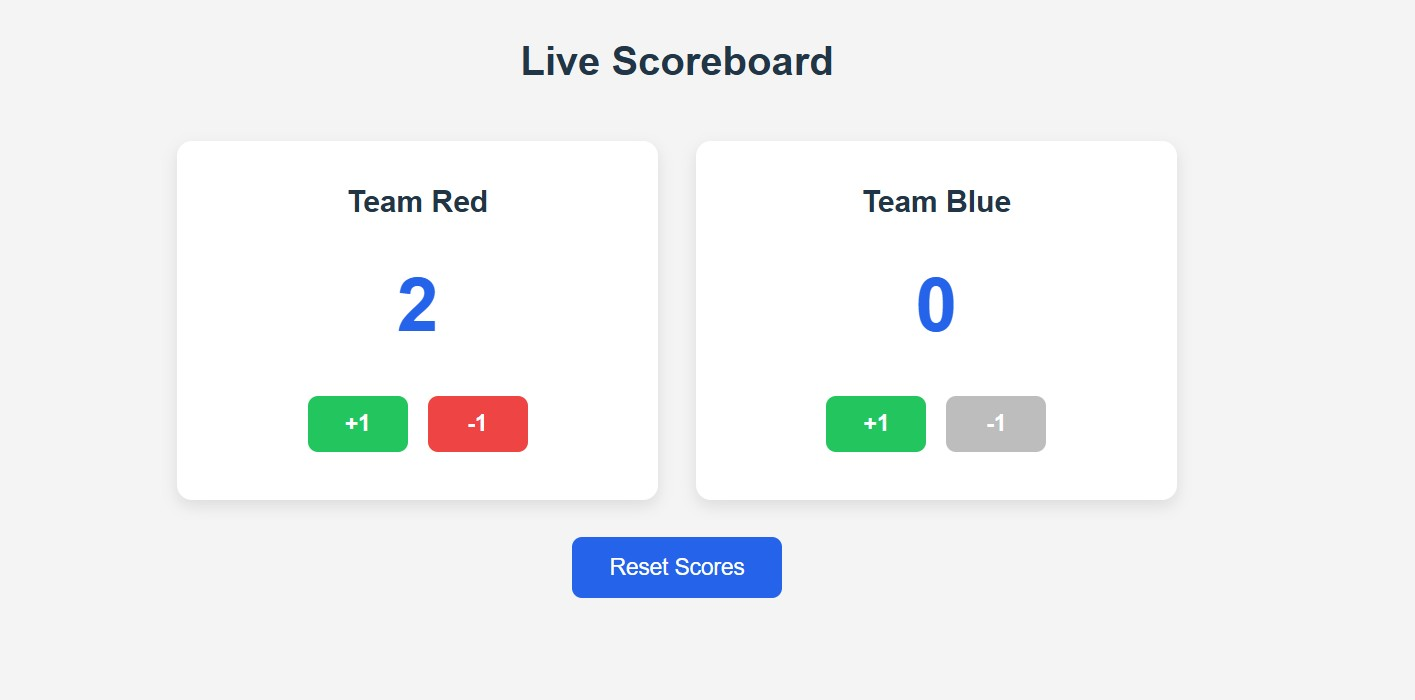
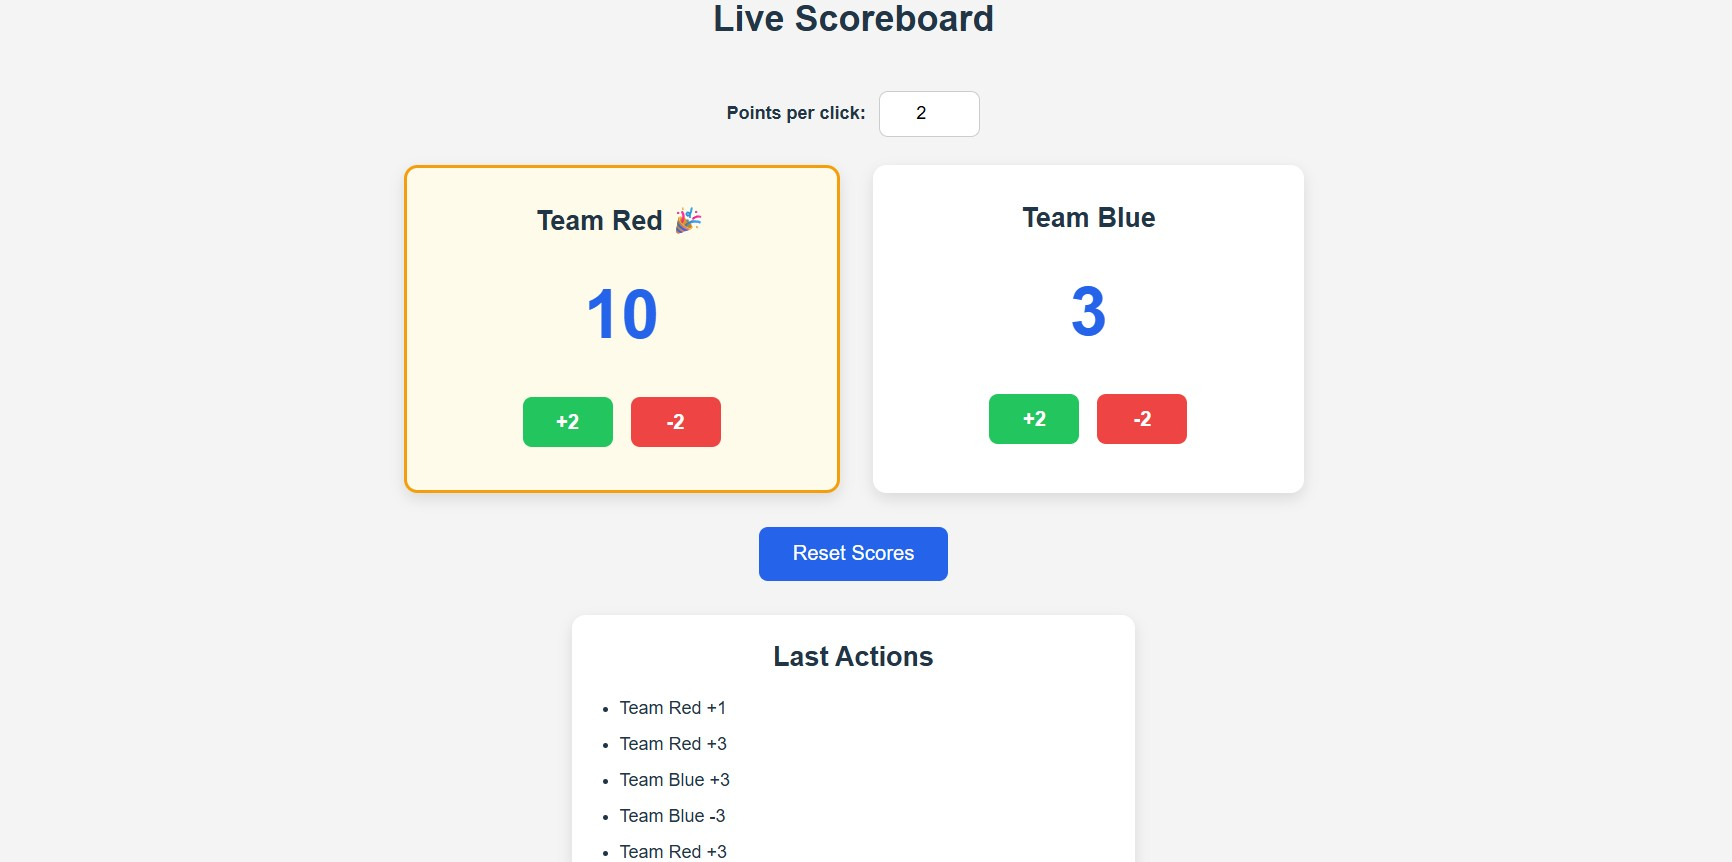
Add scoreboard stretch goals

diff --git a/src/components/Scoreboard.jsx b/src/components/Scoreboard.jsx
@@ -1,41 +1,106 @@
 import { useState } from "react";
 import TeamPanel from "./TeamPanel";
 
-// Holds both teams' scores and updates them
+// Holds both teams' scores, custom step, history, and winner state
 function Scoreboard({ redTeamName, blueTeamName }) {
   const [redScore, setRedScore] = useState(0);
   const [blueScore, setBlueScore] = useState(0);
+  const [step, setStep] = useState(1);
+  const [history, setHistory] = useState([]);
+
+  function addHistory(action) {
+    setHistory((currentHistory) => {
+      const updatedHistory = [action, ...currentHistory];
+
+      return updatedHistory.slice(0, 5);
+    });
+  }
+  
+  function changeRedScore(amount) {
+    if (amount < 0 && redScore === 0) return;
+
+    setRedScore((currentScore) =>
+      Math.max(0, currentScore + amount)
+    );
+
+    addHistory(
+      amount > 0
+        ? `${redTeamName} +${step}`
+        : `${redTeamName} -${step}`
+    );
+  }
+
+  function changeBlueScore(amount) {
+    if (amount < 0 && blueScore === 0) return;
+
+    setBlueScore((currentScore) =>
+      Math.max(0, currentScore + amount)
+    );
+
+    addHistory(
+      amount > 0
+        ? `${blueTeamName} +${step}`
+        : `${blueTeamName} -${step}`
+    );
+  }
 
   function resetScores() {
-    setRedScore(() => 0);
-    setBlueScore(() => 0);
+    setRedScore(0);
+    setBlueScore(0);
+    setHistory([]);
   }
 
   return (
     <section className="scoreboard">
+      <div className="step-control">
+        <label htmlFor="step">Points per click:</label>
+
+        <input
+          id="step"
+          type="number"
+          min="1"
+          value={step}
+          onChange={(event) =>
+            setStep(Math.max(1, Number(event.target.value)))
+          }
+        />
+      </div>
+
       <div className="team-panels">
         <TeamPanel
           teamName={redTeamName}
           score={redScore}
-          onAdd={() => setRedScore((currentScore) => currentScore + 1)}
-          onSubtract={() =>
-            setRedScore((currentScore) => Math.max(0, currentScore - 1))
-          }
+          step={step}
+          onAdd={() => changeRedScore(step)}
+          onSubtract={() => changeRedScore(-step)}
         />
 
         <TeamPanel
           teamName={blueTeamName}
           score={blueScore}
-          onAdd={() => setBlueScore((currentScore) => currentScore + 1)}
-          onSubtract={() =>
-            setBlueScore((currentScore) => Math.max(0, currentScore - 1))
-          }
+          step={step}
+          onAdd={() => changeBlueScore(step)}
+          onSubtract={() => changeBlueScore(-step)}
         />
       </div>
 
       <button className="reset-button" onClick={resetScores}>
         Reset Scores
       </button>
+
+      <div className="history">
+        <h2>Last Actions</h2>
+
+        {history.length === 0 ? (
+          <p>No actions yet.</p>
+        ) : (
+          <ul>
+            {history.map((action, index) => (
+              <li key={`${action}-${index}`}>{action}</li>
+            ))}
+          </ul>
+        )}
+      </div>
     </section>
   );
 }

diff --git a/src/App.css b/src/App.css
@@ -91,6 +91,55 @@ body {
 .reset-button:hover {
   background-color: #1d4ed8;
 }
+.step-control {
+  display: flex;
+  justify-content: center;
+  align-items: center;
+  gap: 12px;
+  margin-bottom: 25px;
+}
+
+.step-control label {
+  font-weight: bold;
+}
+
+.step-control input {
+  width: 90px;
+  padding: 10px;
+  border: 1px solid #cccccc;
+  border-radius: 8px;
+  text-align: center;
+  font-size: 16px;
+}
+
+.team-panel.winner {
+  border: 3px solid #f59e0b;
+  background-color: #fffbea;
+}
+
+.history {
+  max-width: 500px;
+  margin: 30px auto 0;
+  padding: 20px;
+  background-color: white;
+  border-radius: 12px;
+  text-align: left;
+  box-shadow: 0 5px 12px rgba(0, 0, 0, 0.1);
+}
+
+.history h2 {
+  text-align: center;
+  margin-bottom: 15px;
+}
+
+.history ul {
+  margin: 0;
+  padding-left: 22px;
+}
+
+.history li {
+  margin-bottom: 8px;
+}
 
 @media (max-width: 700px) {
   .team-panels {

diff --git a/src/components/TeamPanel.jsx b/src/components/TeamPanel.jsx
@@ -1,18 +1,28 @@
 // Displays one team's score and controls
-function TeamPanel({ teamName, score, onAdd, onSubtract }) {
+function TeamPanel({
+  teamName,
+  score,
+  step,
+  onAdd,
+  onSubtract,
+}) {
+  const isWinner = score >= 10;
+
   return (
-    <div className="team-panel">
-      <h2>{teamName}</h2>
+    <div className={`team-panel ${isWinner ? "winner" : ""}`}>
+      <h2>
+        {teamName} {isWinner && "🎉"}
+      </h2>
 
       <h1>{score}</h1>
 
-      <button onClick={onAdd}>+1</button>
+      <button onClick={onAdd}>+{step}</button>
 
       <button
         onClick={onSubtract}
         disabled={score === 0}
       >
-        -1
+        -{step}
       </button>
     </div>
   );